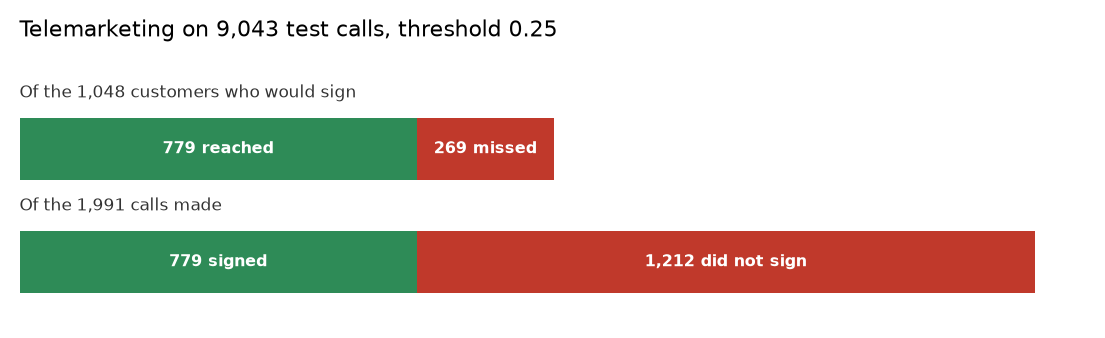
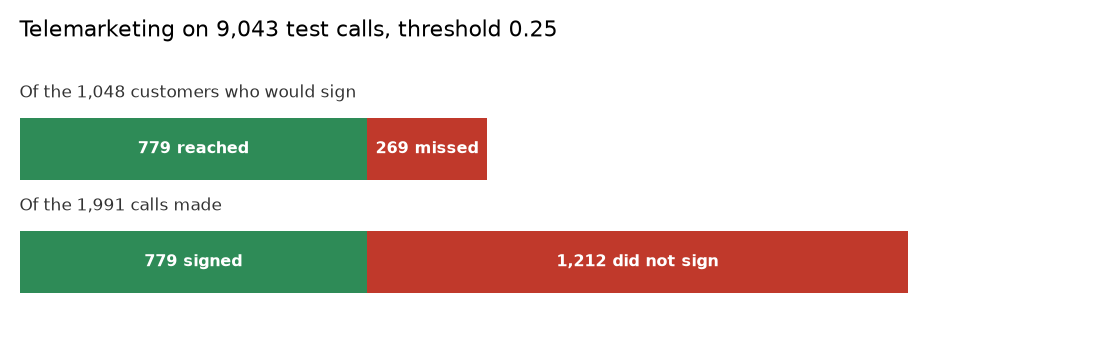
Finance figures: labels fit inside the bars; surveillance counts worded as measured

diff --git a/docs/assets/finance/make_figures.py b/docs/assets/finance/make_figures.py
@@ -106,7 +106,7 @@ def _two_rows(fname, title, rows):
             fontsize=9,
             fontweight="bold",
         )
-        if bad / total > 0.06:
+        if bad / total > 0.15:
             ax.text(
                 good + bad / 2,
                 y,
@@ -134,6 +134,7 @@ def _two_rows(fname, title, rows):
     ax.spines["left"].set_visible(False)
     ax.spines["bottom"].set_visible(False)
     ax.set_ylim(-0.5, len(rows) - 0.1)
+    ax.set_xlim(0, max(g + b for _, g, b, _, _ in rows) * 1.2)
     ax.set_title(title, loc="left")
     fig.tight_layout()
     fig.savefig(HERE / fname, dpi=DPI)

diff --git a/docs/finance/surveillance.md b/docs/finance/surveillance.md
@@ -29,7 +29,7 @@ To benchmark this capability on historical data, the Dense-Armor multi-stage pip
 
 
 ## 1. High-speed input sanitization (Armatura)
-High-frequency execution streams are highly vulnerable to corrupt data packages and network artifacts that distort nominal price spreads. Armatura operates as a real-time digital filtering layer, automatically evaluating the immediate historical envelope to intercept and sanitize absurd price points. Across the five-year S&P 500 benchmark, the filter isolated and neutralized 1 systemic data corruption instance out of 1,253 sessions.
+High-frequency execution streams are highly vulnerable to corrupt data packages and network artifacts that distort nominal price spreads. Armatura operates as a real-time digital filtering layer, automatically evaluating the immediate historical envelope to intercept and sanitize absurd price points. Across the five-year S&P 500 benchmark, the filter discarded 1 tick out of 1,253 sessions.
 
 
 ## 2. Structural market sentiment tracking (CUSUM)
@@ -53,7 +53,7 @@ When scaled to individual asset monitoring, the baseline parameters automaticall
 
 
 ## 5. Algorithmic trade execution shielding (Orca)
-During verified anomalous volatility windows, downstream execution strategies face heightened slippage risks. Orca monitors the final output layer, automatically applying adaptive damping constraints to incoming order sizes to mitigate market-impact costs. Over the five-year deployment simulation, the shield dynamically throttled 1 high-risk automated execution order.
+During verified anomalous volatility windows, downstream execution strategies face heightened slippage risks. Orca monitors the final output layer, automatically applying adaptive damping constraints to incoming order sizes to mitigate market-impact costs. In the five-year run, the shield throttled 1 simulated order.
 
 
 ## Execution Workflow
